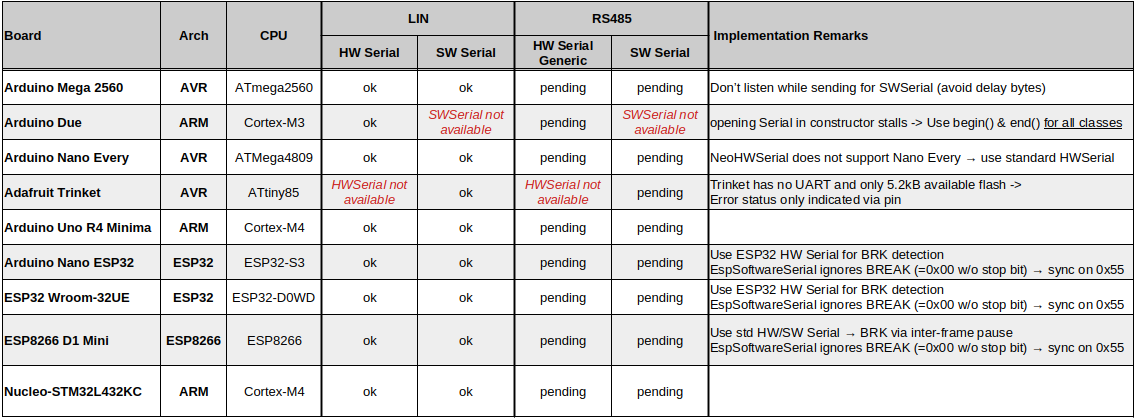
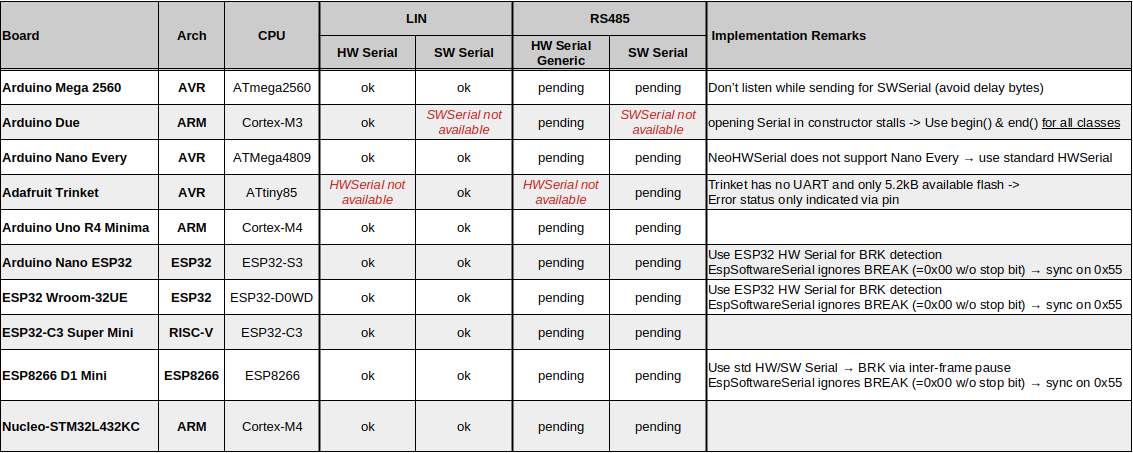
- add support for ESP32-C3 Super Mini board

Changed region(s): [[0.0, 0.0, 1.0, 1.0], [0.1545, 0.0622, 0.1853, 0.0933]]

diff --git a/src/LIN_slave_HardwareSerial_ESP32.cpp b/src/LIN_slave_HardwareSerial_ESP32.cpp
@@ -205,9 +205,9 @@ void LIN_Slave_HardwareSerial_ESP32::begin(uint16_t Baudrate)
   // Attach corresponding error callback to Serialx receive handler
   #if (LIN_SLAVE_ESP32_MAX_SERIAL >= 1)
     #if defined(Serial0)
-      if (this->pSerial == &Serial0)
+      if (this->pSerial == reinterpret_cast<HardwareSerial*>(&Serial0))
     #elif defined(Serial)
-      if (this->pSerial == &Serial)
+      if (this->pSerial == reinterpret_cast<HardwareSerial*>(&Serial))
     #endif
       { 
         this->idxSerial = 0;
@@ -215,14 +215,14 @@ void LIN_Slave_HardwareSerial_ESP32::begin(uint16_t Baudrate)
       }
   #endif
   #if (LIN_SLAVE_ESP32_MAX_SERIAL >= 2)
-    if (this->pSerial == &Serial1)
+    if (this->pSerial == reinterpret_cast<HardwareSerial*>(&Serial1))
     { 
       this->idxSerial = 1;
       this->pSerial->onReceiveError(this->_onSerialReceiveError1);
     }
   #endif
   #if (LIN_SLAVE_ESP32_MAX_SERIAL >= 3)
-    if (this->pSerial == &Serial2)
+    if (this->pSerial == reinterpret_cast<HardwareSerial*>(&Serial2)) 
     { 
       this->idxSerial = 2;
       this->pSerial->onReceiveError(this->_onSerialReceiveError2);

diff --git a/src/LIN_slave_HardwareSerial_ESP32.h b/src/LIN_slave_HardwareSerial_ESP32.h
@@ -35,7 +35,7 @@
 #endif
 
 /// Override for boards with fewer Serial interfaces
-#ifdef ARDUINO_ESP32S2
+#if defined(ARDUINO_ESP32S2) || defined(ARDUINO_ESP32C3_DEV) || defined(ARDUINO_ESP32C2_DEV)
   #undef LIN_SLAVE_ESP32_MAX_SERIAL
   #define LIN_SLAVE_ESP32_MAX_SERIAL   2 
 #endif

diff --git a/README.md b/README.md
@@ -29,7 +29,9 @@ For a similar Arduino libary for LIN master emulation see https://github.com/gic
   - Arduino AVR Cortex-M boards, e.g. [Due](https://store.arduino.cc/products/arduino-due)
   - Arduino Renesas Cortex-M boards, e.g. [Uno R4 Minima](https://docs.arduino.cc/hardware/uno-r4-minima/)
   - ATtiny boards, e.g. [Adafruit Trinket](https://www.adafruit.com/product/1501) (only SoftwareSerial)
-  - ESP32 boards, e.g. [Arduino Nano-ESP32](https://docs.arduino.cc/hardware/nano-esp32/) or [Espressif Wroom-32U](https://www.etechnophiles.com/esp32-dev-board-pinout-specifications-datasheet-and-schematic/)
+  - ESP32 Classic boards, e.g. [Espressif Wroom-32U](https://www.etechnophiles.com/esp32-dev-board-pinout-specifications-datasheet-and-schematic/)
+  - ESP32-S3 boards, e.g. [Arduino Nano-ESP32](https://docs.arduino.cc/hardware/nano-esp32/)
+  - ESP32-C3 boards, e.g. [ESP32-C3 Super Mini](https://www.sudo.is/docs/esphome/boards/esp32c3supermini/)
   - ESP8266 boards, e.g. [Wemos D1 mini](https://www.wemos.cc/en/latest/d1/d1_mini.html)
   - STM32 boards, e.g. [Nucleo-STM32L432KC](https://www.st.com/en/evaluation-tools/nucleo-l432kc.html)
 
@@ -91,6 +93,9 @@ Have fun!, Georg
 
 Revision History
 ----------------
+
+**v1.4 (2026-05-19)**
+  - add support for ESP32-C3 Super Mini board
 
 **v1.3 (2025-02-06)**
   - add support for ESP32-S3, Nano Every, STM32, and Uno R4 Minima (no HWSerial, see [issue](https://github.com/arduino/ArduinoCore-renesas/issues/524))
